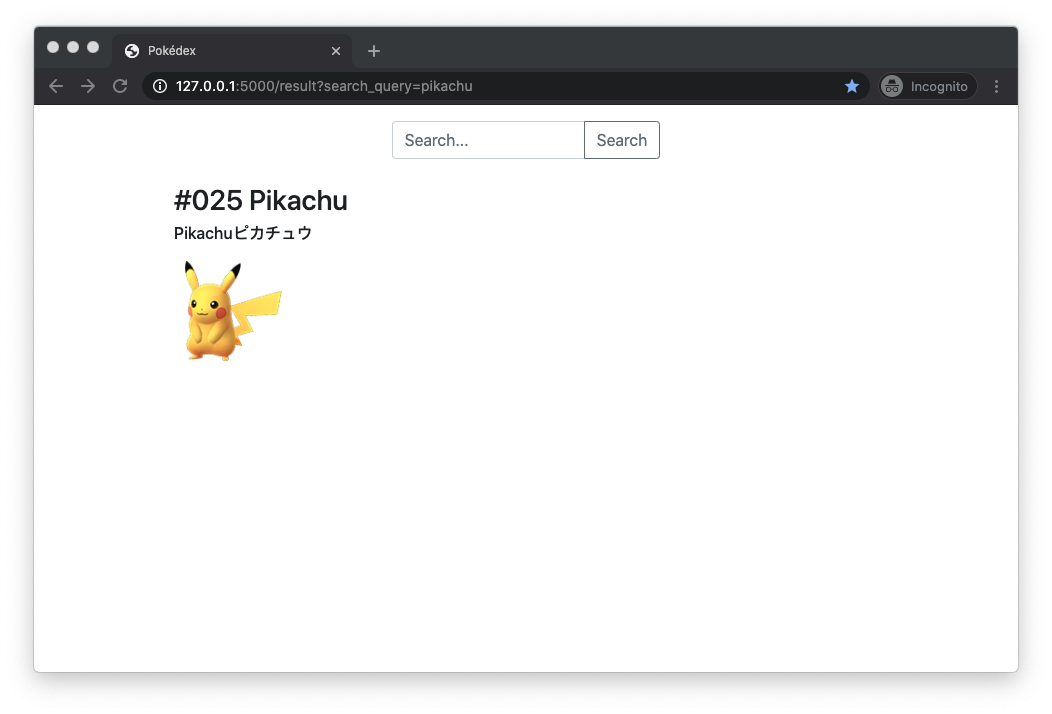
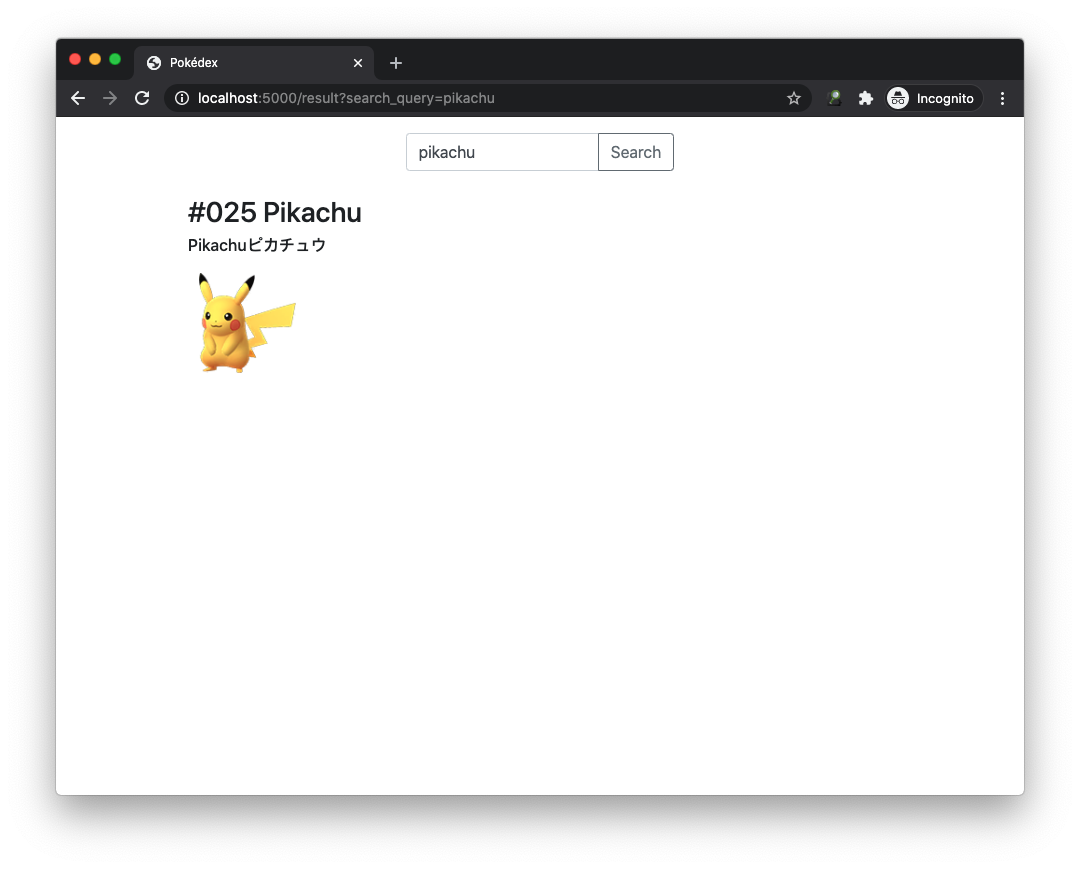
Update readme

Changed region(s): [[0.0304, 0.0308, 0.9734, 0.9552], [0.1521, 0.2157, 0.3346, 0.5238]]

diff --git a/pokedex/app/search.py b/pokedex/app/search.py
@@ -23,6 +23,7 @@ def search(term=None):
                 "fields": [
                     "doc.name",
                     "doc.japanese_name",
+                    "doc.classification",
                     "doc.type1",
                     "doc.type2"
                 ]

diff --git a/README.md b/README.md
@@ -2,7 +2,7 @@
 This is my attempt in using Elasticsearch to build a very simple search engine, what would be a better project than 
 building your own Pokédex.
 
-![Home](media/pokdex.png)
+![Home](media/pokedex.png)
 
 ### Dataset
 The dataset I used for the project was found on Kaggle (https://www.kaggle.com/rounakbanik/pokemon)  
@@ -17,7 +17,9 @@ Elasticsearch - http://127.0.0.1:9200
 Kibana - http://127.0.0.1:5601  
 
 ### Search Examples
-The search allows us to either search with english or japanese name of the pokemon  
+Search for pokemons with their English or Japanese name
 ![Search Example 1](media/search_example_1.png)
-You can also search for all pokemons of a given type   
+Search for all pokemons of a given type
 ![Search Example 2](media/search_example_2.png)
+Search for pokemons of a given classification
+![Search Example 2](media/search_example_3.png)
